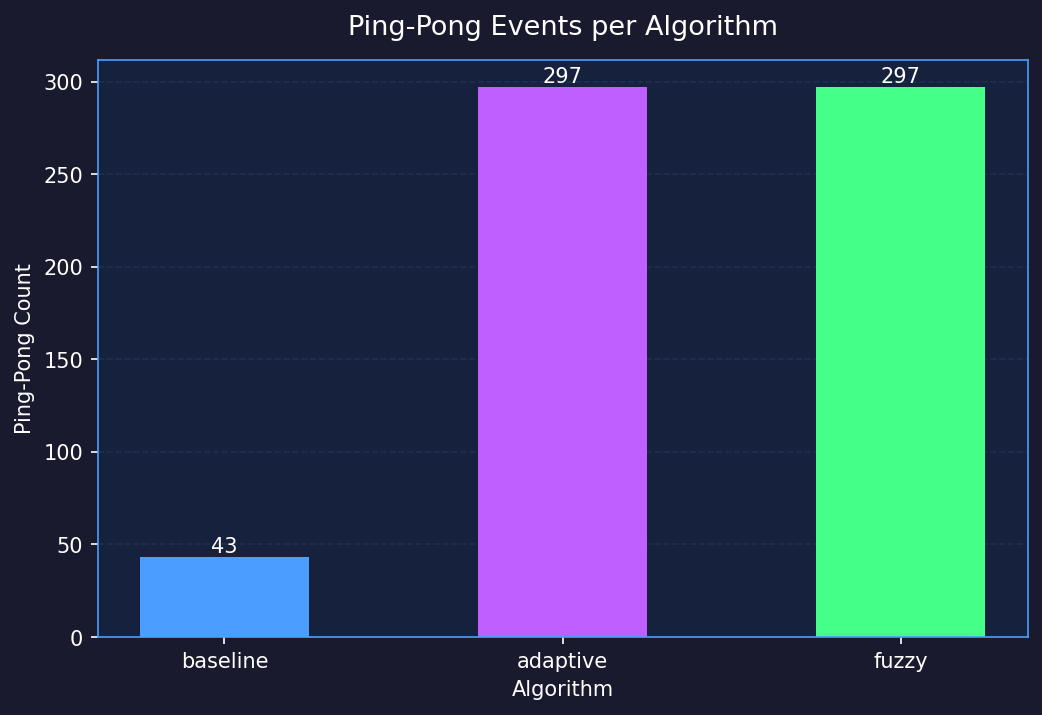
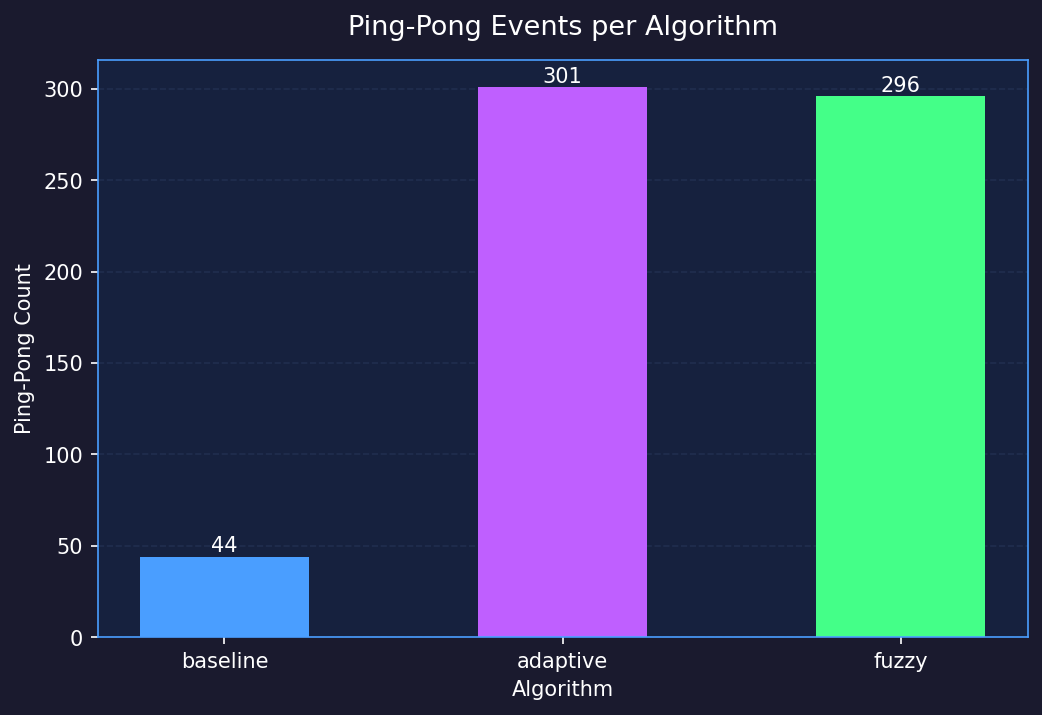
Cleanup

diff --git a/Scripts/base_station.py b/Scripts/base_station.py
@@ -6,12 +6,12 @@
 import random
 import math
 
-# Fuzzy scoring thresholds
+#Fuzzy scoring thresholds
 RSS_THRESHOLDS  = {"low": -40, "high": -10}   # dBm
 SNR_THRESHOLDS  = {"low": 63,  "high": 68}    # dB
 LOAD_THRESHOLDS = {"low": 20, "high": 80}    # %
  
-# FFDS weights 
+#FFDS weights 
 FFDS_WEIGHTS    = {"rss": 0.40, "snr": 0.40, "load": 0.20}
 #These thresholds and weights can be adjusted if needed
 
@@ -39,7 +39,7 @@ def fuzzy_score(value, low_thresh, high_thresh, invert=False):
 class BaseStation:
     # It has an id, location (x,y), power, noise level, congestion level, and coverage radius
     def __init__(self, id, x, y, power, noise, congestion, coverage_radius):
-        #unique identifier for the base station
+        #Unique identifier for the base station
         self.id = id
 
         #Base station location
@@ -96,12 +96,12 @@ class BaseStation:
         if distance == 0:
             distance = 0.1
         
-        # Free space path loss equation
+        #Free space path loss equation
         path_loss = 10 * 2.0 * math.log10(distance)
         noise = random.gauss(0, self.noise)
         congestion_penalty = len(self.active_calls) * self.congestion
         
-        # Simplified RSS model for simulation, does not need wavelength or frequency
+        #Simplified RSS model for simulation, does not need wavelength or frequency
         rss = self.power - path_loss - congestion_penalty + noise
         return rss
     

diff --git a/Scripts/results.py b/Scripts/results.py
@@ -36,6 +36,7 @@ class Results:
     #We will detect ping pongs by looking for handoffs where the same MS switches back to a recently left BS within a set window
     def detect_ping_pongs(self, window=2):
         self.ping_pongs = []  # reset before detecting so no duplicates on repeated calls
+        
         #Go through handoff history and find rapid switches back to a previous BS
         for i in range(len(self.handoffs)):
             time_i, ms_id, old_bs, new_bs = self.handoffs[i]

diff --git a/Scripts/graphs.py b/Scripts/graphs.py
@@ -324,7 +324,7 @@ def plot_avg_time_between_handoffs(all_results):
         ax.text(bar.get_x() + bar.get_width() / 2, bar.get_height() + 0.2,
                 f'{val:.1f}', ha='center', va='bottom', color='white', fontsize=10)
 
-    apply_dark_style(ax, "Average Time Between Handoffs (Higher = More Stable)",
+    apply_dark_style(ax, "Average Time Between Handoffs",
                     "Algorithm", "Avg Steps Between Handoffs")
     save_fig("9_avg_time_between_handoffs.png")
 

diff --git a/Scripts/sim.py b/Scripts/sim.py
@@ -7,7 +7,12 @@
 
 #Use a seed to keep everything deterministic across runs
 import random
-RANDOM_SEED = 6767
+
+RANDOM_SEED = 12345
+#RANDOM_SEED = 42
+#RANDOM_SEED = 456
+#RANDOM_SEED = 789
+#RANDOM_SEED = 99
 
 import simpy #Use Simpy for the simulation environment and event scheduling
 from network import Network

diff --git a/Scripts/network.py b/Scripts/network.py
@@ -28,7 +28,7 @@ class Network:
         self.base_stations = []
 
         # fixed seed so BSs are deterministic
-        rng = random.Random(12345)  
+        rng = random.Random(12345)
 
         for i, (x, y) in enumerate(centers):
             bs = BaseStation(
